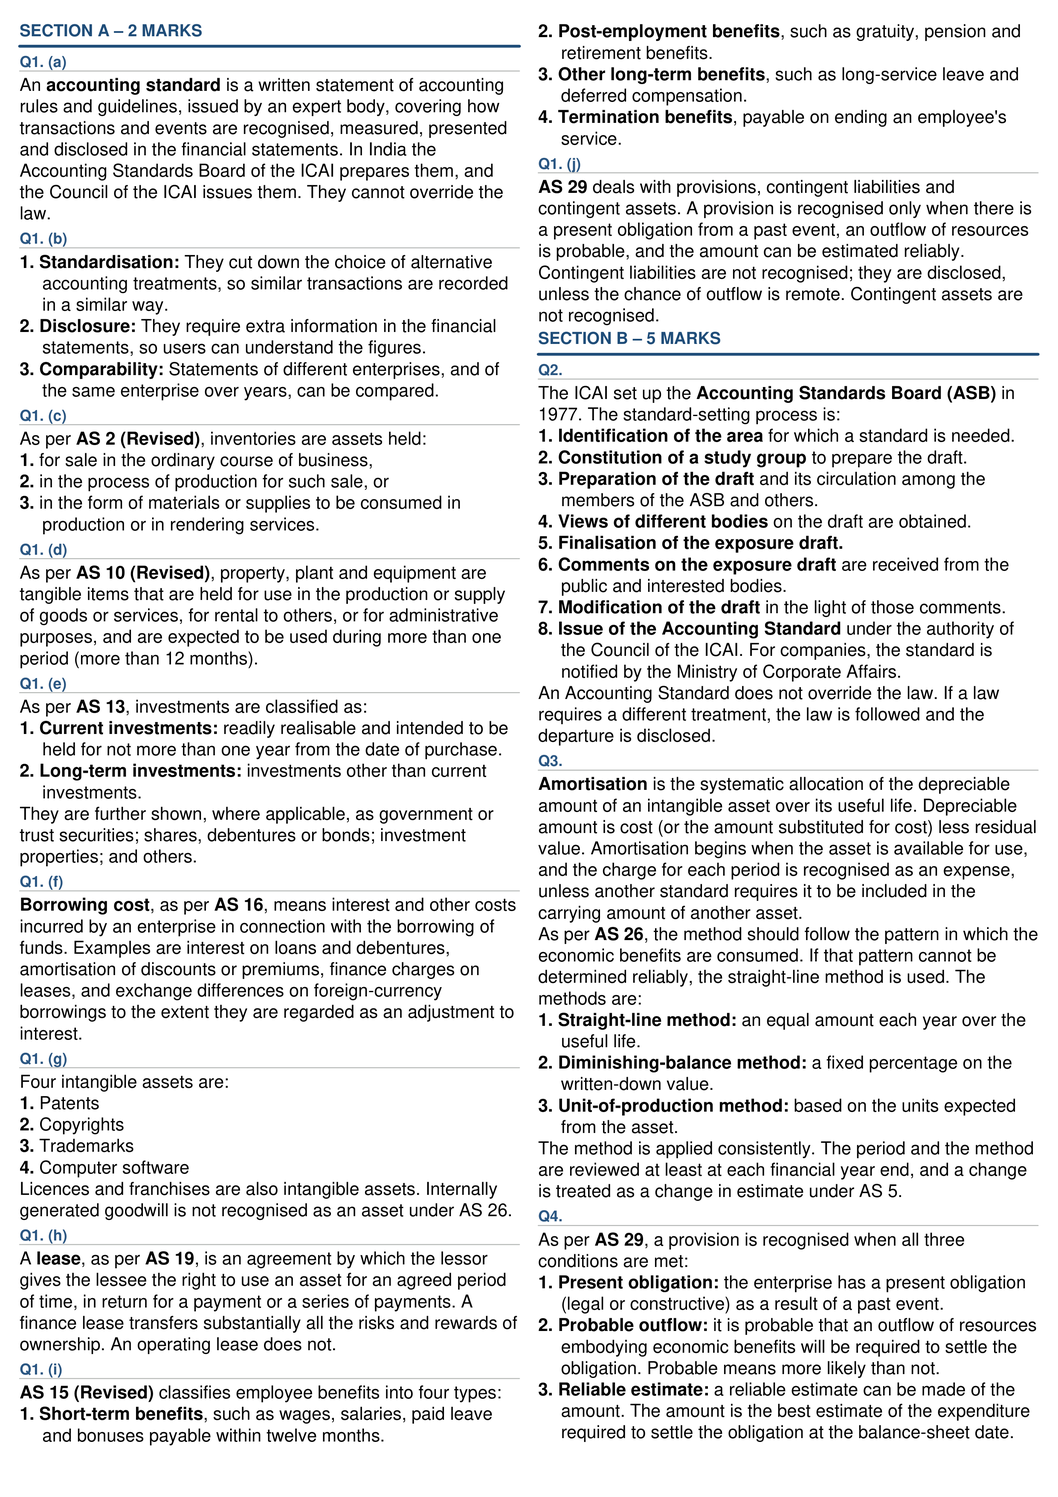
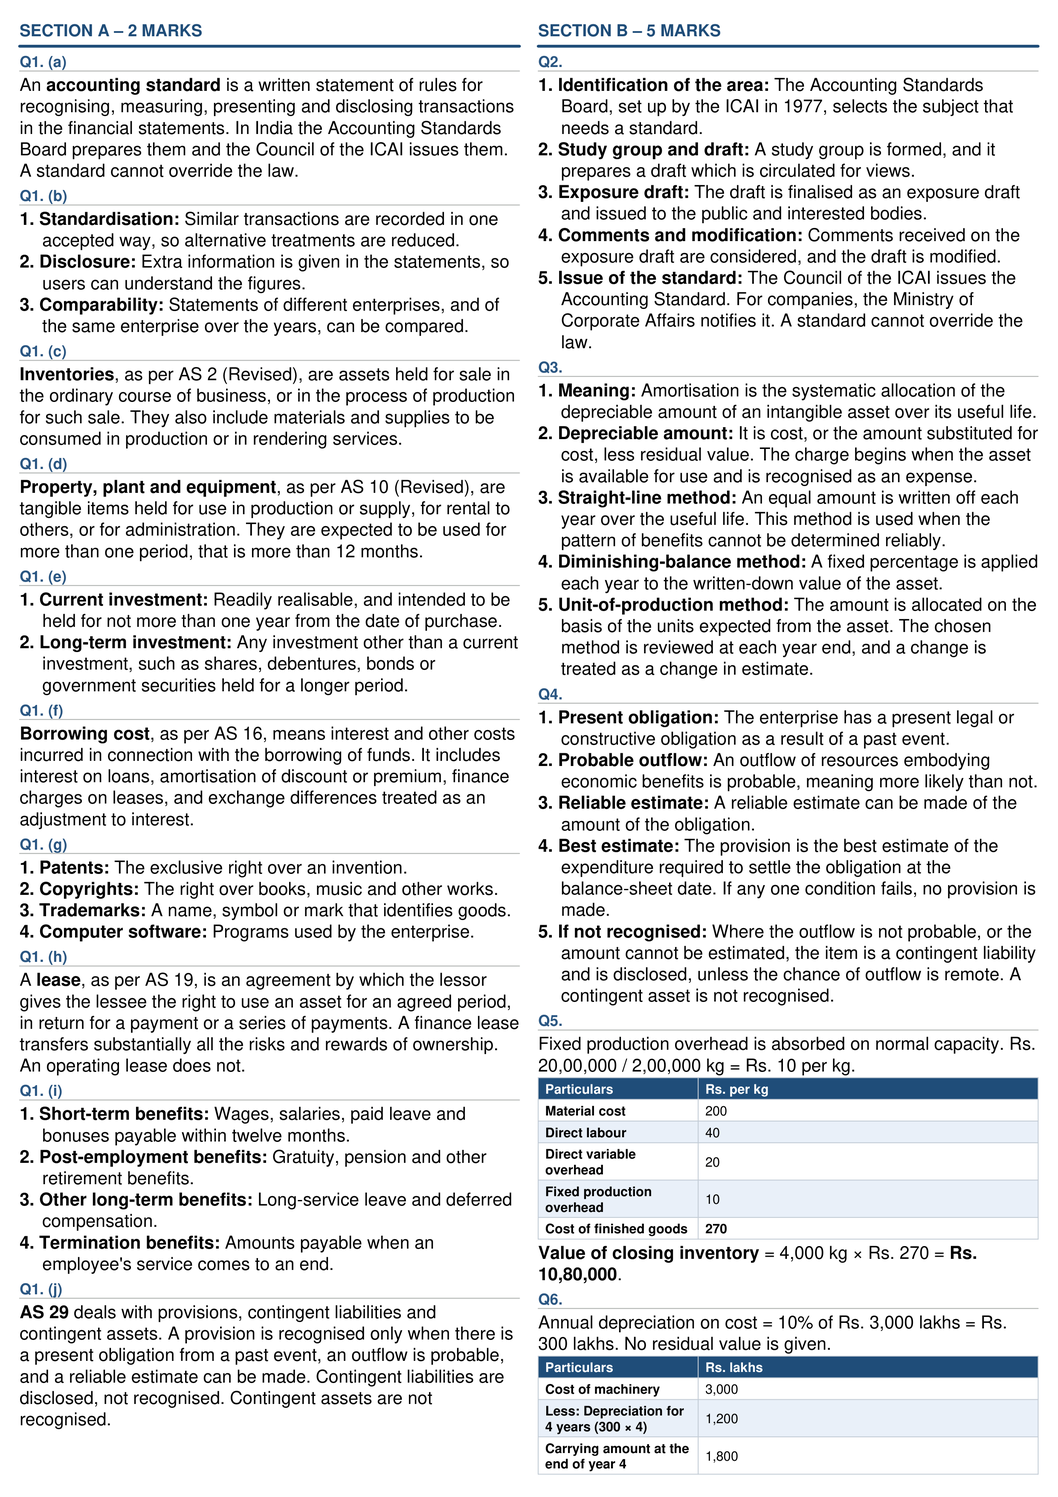
Put the Accounting Standards answers in the set exam format.
Two-mark answers are short definitions, five-mark answers are five labelled points, and the ten-mark theory answer is ten points. The workings are unchanged.

Changed region(s): [[0.0, 0.0, 0.9931, 0.9943]]

diff --git a/papers/accounting-standards-54323/answers.md b/papers/accounting-standards-54323/answers.md
@@ -1,132 +1,105 @@
 <!--
   Third Semester B.Com, December 2025 / January 2026 (SEP), Accounting Standards I, Q.P. 54323.
   Choice rule: only the first N of each section. A: 1(a)-(j). B: Q2-Q7. C: Q10-Q12.
-  Sources: ICAI Intermediate Advanced Accounting study material (the same edition as the saved AS 7, AS 26 and AS 28 chapters) and the notes already in notes/accounting-standards/.
 -->
 
 # SECTION A – 2 MARKS
 
 ## Q1. (a)
-An **accounting standard** is a written statement of accounting rules and guidelines, issued by an expert body, covering how transactions and events are recognised, measured, presented and disclosed in the financial statements. In India the Accounting Standards Board of the ICAI prepares them, and the Council of the ICAI issues them. They cannot override the law.
+An **accounting standard** is a written statement of rules for recognising, measuring, presenting and disclosing transactions in the financial statements. In India the Accounting Standards Board prepares them and the Council of the ICAI issues them. A standard cannot override the law.
 
 ## Q1. (b)
-1. **Standardisation:** They cut down the choice of alternative accounting treatments, so similar transactions are recorded in a similar way.
-2. **Disclosure:** They require extra information in the financial statements, so users can understand the figures.
-3. **Comparability:** Statements of different enterprises, and of the same enterprise over years, can be compared.
+1. **Standardisation:** Similar transactions are recorded in one accepted way, so alternative treatments are reduced.
+2. **Disclosure:** Extra information is given in the statements, so users can understand the figures.
+3. **Comparability:** Statements of different enterprises, and of the same enterprise over the years, can be compared.
 
 ## Q1. (c)
-As per **AS 2 (Revised)**, inventories are assets held:
-1. for sale in the ordinary course of business,
-2. in the process of production for such sale, or
-3. in the form of materials or supplies to be consumed in production or in rendering services.
+**Inventories**, as per AS 2 (Revised), are assets held for sale in the ordinary course of business, or in the process of production for such sale. They also include materials and supplies to be consumed in production or in rendering services.
 
 ## Q1. (d)
-As per **AS 10 (Revised)**, property, plant and equipment are tangible items that are held for use in the production or supply of goods or services, for rental to others, or for administrative purposes, and are expected to be used during more than one period (more than 12 months).
+**Property, plant and equipment**, as per AS 10 (Revised), are tangible items held for use in production or supply, for rental to others, or for administration. They are expected to be used for more than one period, that is more than 12 months.
 
 ## Q1. (e)
-As per **AS 13**, investments are classified as:
-1. **Current investments:** readily realisable and intended to be held for not more than one year from the date of purchase.
-2. **Long-term investments:** investments other than current investments.
-
-They are further shown, where applicable, as government or trust securities; shares, debentures or bonds; investment properties; and others.
+1. **Current investment:** Readily realisable, and intended to be held for not more than one year from the date of purchase.
+2. **Long-term investment:** Any investment other than a current investment, such as shares, debentures, bonds or government securities held for a longer period.
 
 ## Q1. (f)
-**Borrowing cost**, as per **AS 16**, means interest and other costs incurred by an enterprise in connection with the borrowing of funds. Examples are interest on loans and debentures, amortisation of discounts or premiums, finance charges on leases, and exchange differences on foreign-currency borrowings to the extent they are regarded as an adjustment to interest.
+**Borrowing cost**, as per AS 16, means interest and other costs incurred in connection with the borrowing of funds. It includes interest on loans, amortisation of discount or premium, finance charges on leases, and exchange differences treated as an adjustment to interest.
 
 ## Q1. (g)
-Four intangible assets are:
-1. Patents
-2. Copyrights
-3. Trademarks
-4. Computer software
-
-Licences and franchises are also intangible assets. Internally generated goodwill is not recognised as an asset under AS 26.
+1. **Patents:** The exclusive right over an invention.
+2. **Copyrights:** The right over books, music and other works.
+3. **Trademarks:** A name, symbol or mark that identifies goods.
+4. **Computer software:** Programs used by the enterprise.
 
 ## Q1. (h)
-A **lease**, as per **AS 19**, is an agreement by which the lessor gives the lessee the right to use an asset for an agreed period of time, in return for a payment or a series of payments. A finance lease transfers substantially all the risks and rewards of ownership. An operating lease does not.
+A **lease**, as per AS 19, is an agreement by which the lessor gives the lessee the right to use an asset for an agreed period, in return for a payment or a series of payments. A finance lease transfers substantially all the risks and rewards of ownership. An operating lease does not.
 
 ## Q1. (i)
-**AS 15 (Revised)** classifies employee benefits into four types:
-1. **Short-term benefits**, such as wages, salaries, paid leave and bonuses payable within twelve months.
-2. **Post-employment benefits**, such as gratuity, pension and retirement benefits.
-3. **Other long-term benefits**, such as long-service leave and deferred compensation.
-4. **Termination benefits**, payable on ending an employee's service.
+1. **Short-term benefits:** Wages, salaries, paid leave and bonuses payable within twelve months.
+2. **Post-employment benefits:** Gratuity, pension and other retirement benefits.
+3. **Other long-term benefits:** Long-service leave and deferred compensation.
+4. **Termination benefits:** Amounts payable when an employee's service comes to an end.
 
 ## Q1. (j)
-**AS 29** deals with provisions, contingent liabilities and contingent assets. A provision is recognised only when there is a present obligation from a past event, an outflow of resources is probable, and the amount can be estimated reliably. Contingent liabilities are not recognised; they are disclosed, unless the chance of outflow is remote. Contingent assets are not recognised.
+**AS 29** deals with provisions, contingent liabilities and contingent assets. A provision is recognised only when there is a present obligation from a past event, an outflow is probable, and a reliable estimate can be made. Contingent liabilities are disclosed, not recognised. Contingent assets are not recognised.
 
 # SECTION B – 5 MARKS
 
 ## Q2.
-The ICAI set up the **Accounting Standards Board (ASB)** in 1977. The standard-setting process is:
-1. **Identification of the area** for which a standard is needed.
-2. **Constitution of a study group** to prepare the draft.
-3. **Preparation of the draft** and its circulation among the members of the ASB and others.
-4. **Views of different bodies** on the draft are obtained.
-5. **Finalisation of the exposure draft.**
-6. **Comments on the exposure draft** are received from the public and interested bodies.
-7. **Modification of the draft** in the light of those comments.
-8. **Issue of the Accounting Standard** under the authority of the Council of the ICAI. For companies, the standard is notified by the Ministry of Corporate Affairs.
-
-An Accounting Standard does not override the law. If a law requires a different treatment, the law is followed and the departure is disclosed.
+1. **Identification of the area:** The Accounting Standards Board, set up by the ICAI in 1977, selects the subject that needs a standard.
+2. **Study group and draft:** A study group is formed, and it prepares a draft which is circulated for views.
+3. **Exposure draft:** The draft is finalised as an exposure draft and issued to the public and interested bodies.
+4. **Comments and modification:** Comments received on the exposure draft are considered, and the draft is modified.
+5. **Issue of the standard:** The Council of the ICAI issues the Accounting Standard. For companies, the Ministry of Corporate Affairs notifies it. A standard cannot override the law.
 
 ## Q3.
-**Amortisation** is the systematic allocation of the depreciable amount of an intangible asset over its useful life. Depreciable amount is cost (or the amount substituted for cost) less residual value. Amortisation begins when the asset is available for use, and the charge for each period is recognised as an expense, unless another standard requires it to be included in the carrying amount of another asset.
-
-As per **AS 26**, the method should follow the pattern in which the economic benefits are consumed. If that pattern cannot be determined reliably, the straight-line method is used. The methods are:
-1. **Straight-line method:** an equal amount each year over the useful life.
-2. **Diminishing-balance method:** a fixed percentage on the written-down value.
-3. **Unit-of-production method:** based on the units expected from the asset.
-
-The method is applied consistently. The period and the method are reviewed at least at each financial year end, and a change is treated as a change in estimate under AS 5.
+1. **Meaning:** Amortisation is the systematic allocation of the depreciable amount of an intangible asset over its useful life.
+2. **Depreciable amount:** It is cost, or the amount substituted for cost, less residual value. The charge begins when the asset is available for use and is recognised as an expense.
+3. **Straight-line method:** An equal amount is written off each year over the useful life. This method is used when the pattern of benefits cannot be determined reliably.
+4. **Diminishing-balance method:** A fixed percentage is applied each year to the written-down value of the asset.
+5. **Unit-of-production method:** The amount is allocated on the basis of the units expected from the asset. The chosen method is reviewed at each year end, and a change is treated as a change in estimate.
 
 ## Q4.
-As per **AS 29**, a provision is recognised when all three conditions are met:
-1. **Present obligation:** the enterprise has a present obligation (legal or constructive) as a result of a past event.
-2. **Probable outflow:** it is probable that an outflow of resources embodying economic benefits will be required to settle the obligation. Probable means more likely than not.
-3. **Reliable estimate:** a reliable estimate can be made of the amount. The amount is the best estimate of the expenditure required to settle the obligation at the balance-sheet date.
-
-If any one condition fails, no provision is made. Where the outflow is not probable, or the amount cannot be estimated, the item is a contingent liability and is disclosed, unless the possibility of outflow is remote. An enterprise should not recognise a contingent asset.
+1. **Present obligation:** The enterprise has a present legal or constructive obligation as a result of a past event.
+2. **Probable outflow:** An outflow of resources embodying economic benefits is probable, meaning more likely than not.
+3. **Reliable estimate:** A reliable estimate can be made of the amount of the obligation.
+4. **Best estimate:** The provision is the best estimate of the expenditure required to settle the obligation at the balance-sheet date. If any one condition fails, no provision is made.
+5. **If not recognised:** Where the outflow is not probable, or the amount cannot be estimated, the item is a contingent liability and is disclosed, unless the chance of outflow is remote. A contingent asset is not recognised.
 
 ## Q5.
-Fixed production overhead is absorbed on **normal capacity**, as required by AS 2. It is not increased because of low production.
+Fixed production overhead is absorbed on normal capacity. Rs. 20,00,000 / 2,00,000 kg = Rs. 10 per kg.
 
 | Particulars | Rs. per kg |
 | --- | --- |
 | Material cost | 200 |
 | Direct labour | 40 |
 | Direct variable overhead | 20 |
-| Fixed production overhead (Rs. 20,00,000 / 2,00,000 kg) | 10 |
+| Fixed production overhead | 10 |
 | **Cost of finished goods** | **270** |
 
 **Value of closing inventory** = 4,000 kg × Rs. 270 = **Rs. 10,80,000**.
 
-Actual output is not given, so the normal-capacity rate of Rs. 10 per kg is used. Fixed overhead left unabsorbed, if production is below normal capacity, is charged to profit and loss and is not added to the stock.
-
 ## Q6.
-Depreciation is 10% per year on the straight-line method. On a life of 10 years and no residual value, that is Rs. 300 lakhs a year (10% of Rs. 3,000 lakhs).
+Annual depreciation on cost = 10% of Rs. 3,000 lakhs = Rs. 300 lakhs. No residual value is given.
 
 | Particulars | Rs. lakhs |
 | --- | --- |
 | Cost of machinery | 3,000 |
 | Less: Depreciation for 4 years (300 × 4) | 1,200 |
-| Carrying amount at the end of year 4, before revaluation | 1,800 |
-| Revalued amount adopted at the end of year 4 | 2,700 |
-| Revaluation surplus, credited to revaluation reserve (2,700 − 1,800) | 900 |
+| Carrying amount at the end of year 4 | 1,800 |
+| Revalued amount adopted | 2,700 |
+| Revaluation surplus (2,700 − 1,800) | 900 |
 
-Useful life is unchanged, so 6 years remain. Under AS 10 the revalued amount is depreciated over the remaining useful life.
-
-Depreciation from year 5 = 2,700 / 6 = **Rs. 450 lakhs per year**.
+Useful life is unchanged, so 6 years remain. Depreciation = 2,700 / 6 = **Rs. 450 lakhs a year**.
 
 | At the end of | Rs. lakhs |
 | --- | --- |
-| Year 5 (2,700 − 450) | 2,250 |
-| Year 6 (2,250 − 450) | 1,800 |
-
-**Carrying amount at the end of year 5 is Rs. 2,250 lakhs, and at the end of year 6 is Rs. 1,800 lakhs.**
+| Year 5 (2,700 − 450) | **2,250** |
+| Year 6 (2,250 − 450) | **1,800** |
 
 ## Q7.
-Value in use is the present value of the cash flows from use and from disposal at the end of the life. The residual value of Rs. 5 lakhs is discounted with the year-5 factor.
+Value in use includes the cash flows from use and the residual value on disposal.
 
 | Year ended | Cash flow (Rs. lakhs) | Factor at 10% | Present value |
 | --- | --- | --- | --- |
@@ -135,80 +108,57 @@ Value in use is the present value of the cash flows from use and from disposal a
 | 31.03.2014 | 30 | 0.751 | 22.53 |
 | 31.03.2015 | 20 | 0.683 | 13.66 |
 | 31.03.2016 | 20 | 0.620 | 12.40 |
-| Residual value on 31.03.2016 | 5 | 0.620 | 3.10 |
+| Residual value | 5 | 0.620 | 3.10 |
 | **Value in use** | | | **121.92** |
 
-Recoverable amount is the higher of net selling price and value in use.
-
-Net selling price = Rs. 60 lakhs. Value in use = Rs. 121.92 lakhs.
-
-**Recoverable amount = Rs. 121.92 lakhs.**
-
-The carrying amount is Rs. 100 lakhs, which is below the recoverable amount, so there is no impairment loss.
+**Recoverable amount** is the higher of net selling price (Rs. 60 lakhs) and value in use (Rs. 121.92 lakhs), so **Rs. 121.92 lakhs**. Carrying amount is Rs. 100 lakhs, so there is no impairment loss.
 
 # SECTION C – 10 MARKS
 
 ## Q10.
-The Council of the ICAI, at its meeting of 18–19 March 2021, classified **non-company entities** for Accounting Standards applicable to periods beginning on or after 1 April 2020. There are four levels. Level I entities are large. Level II are medium, Level III are small and Level IV are micro. Levels II, III and IV are together called MSMEs.
-
-**Level I** (any one of the following, at the end of the relevant accounting period):
-1. Securities are listed, or are in the process of listing, on any stock exchange in India or outside India.
-2. Banks (including co-operative banks), financial institutions, or an insurance business.
-3. Turnover, excluding other income, exceeds **Rs. 250 crore** in the immediately preceding accounting year.
-4. Borrowings, including public deposits, exceed **Rs. 50 crore** at any time during the immediately preceding accounting year.
-5. Holding and subsidiary entities of any of the above.
-
-Level I entities comply in full with all Accounting Standards.
-
-**Level II** (not Level I, but any one of the following):
-1. Turnover, excluding other income, exceeds **Rs. 50 crore** but does not exceed **Rs. 250 crore**.
-2. Borrowings, including public deposits, exceed **Rs. 10 crore** but do not exceed **Rs. 50 crore**.
-3. Holding and subsidiary entities of any of the above.
-
-**Level III** (not Level I or Level II, but any one of the following):
-1. Turnover, excluding other income, exceeds **Rs. 10 crore** but does not exceed **Rs. 50 crore**.
-2. Borrowings, including public deposits, exceed **Rs. 2 crore** but do not exceed **Rs. 10 crore**.
-3. Holding and subsidiary entities of any of the above.
-
-**Level IV:** every non-company entity not covered in Level I, II or III.
-
-Levels II, III and IV are given exemptions and relaxations. An entity which uses them must disclose, in a note, that it is an MSME, its level, and that it has complied with the Accounting Standards so far as they apply to that level. This classification does not apply to a non-company entity which is required to follow Ind AS.
+The Council of the ICAI classified non-company entities, for periods beginning on or after 1 April 2020, into four levels. Level I is large. Levels II, III and IV are medium, small and micro, and together they are called MSMEs.
+### Level I
+1. **Listed:** Its securities are listed, or are in the process of listing, on any stock exchange in India or outside India.
+2. **Bank or insurer:** It is a bank, including a co-operative bank, a financial institution, or it carries on insurance business.
+3. **Turnover:** Turnover, excluding other income, exceeds Rs. 250 crore in the immediately preceding accounting year.
+4. **Borrowings:** Borrowings, including public deposits, exceed Rs. 50 crore at any time during the immediately preceding accounting year.
+5. **Holding and subsidiary:** A holding or subsidiary entity of any of the above is also Level I. Level I entities comply in full with all Accounting Standards.
+### Level II
+6. **Turnover band:** It is not Level I, and its turnover, excluding other income, exceeds Rs. 50 crore but does not exceed Rs. 250 crore.
+7. **Borrowings band:** Borrowings, including public deposits, exceed Rs. 10 crore but do not exceed Rs. 50 crore. Holding and subsidiary entities of such an entity are also Level II.
+### Level III
+8. **Turnover band:** It is not Level I or Level II, and its turnover, excluding other income, exceeds Rs. 10 crore but does not exceed Rs. 50 crore.
+9. **Borrowings band:** Borrowings, including public deposits, exceed Rs. 2 crore but do not exceed Rs. 10 crore. Holding and subsidiary entities of such an entity are also Level III.
+### Level IV
+10. **Micro entities:** Every non-company entity not covered above is Level IV. Levels II, III and IV get exemptions, and an entity that uses them discloses its level in a note. This scheme does not apply to an entity which must follow Ind AS.
 
 ## Q11.
-The shares are current investments, so they are carried at cost or market value, whichever is lower. Bonus is in the ratio of 1:2, that is one bonus share for every two shares held. Cost of the bonus is nil, and the total cost is spread over the shares held after the bonus.
+Current investments are carried at cost or market value, whichever is lower. Bonus of 1:2 is one new share for every two held.
 
-### Working 1 — Cost of 1,000 shares purchased on 1.4.2021
+### Cost of 1,000 shares on 1.4.2021
 
 | Particulars | Rs. |
 | --- | --- |
 | Price paid (1,000 × Rs. 120) | 1,20,000 |
-| Brokerage at 2% of Rs. 1,20,000 | 2,400 |
-| Share-transfer stamps, 50 paise per Rs. 100 of Rs. 1,20,000 | 600 |
+| Brokerage at 2% | 2,400 |
+| Stamps, 50 paise per Rs. 100 of Rs. 1,20,000 | 600 |
 | **Cost** | **1,23,000** |
 
-### Working 2 — Bonus and average cost
+Bonus shares = 1,000 × 1/2 = 500. Shares after bonus = 1,500. Average cost = 1,23,000 / 1,500 = **Rs. 82**.
 
-Bonus shares = 1,000 × 1/2 = **500 shares**. Shares after bonus = 1,500.
-
-Average cost = 1,23,000 / 1,500 = **Rs. 82 per share**.
-
-### Working 3 — Sale of 500 bonus shares on 31.3.2022
+### Sale of 500 bonus shares on 31.3.2022
 
 | Particulars | Rs. |
 | --- | --- |
 | Sale price (500 × Rs. 90) | 45,000 |
 | Less: Brokerage at 2% | 900 |
-| Net sale proceeds | 44,100 |
-| Less: Cost of shares sold (500 × Rs. 82) | 41,000 |
+| Net proceeds | 44,100 |
+| Less: Cost (500 × Rs. 82) | 41,000 |
 | **Profit on sale** | **3,100** |
 
-### Working 4 — Valuation of the remaining 1,000 shares
+Closing holding: cost Rs. 82,000 (1,000 × Rs. 82). Market value Rs. 90,000 (1,000 × Rs. 90). Carried at **Rs. 82,000**. Rs. 175 was the cum-bonus price, not the year-end price.
 
-Cost = 1,000 × Rs. 82 = Rs. 82,000. Market value = 1,000 × Rs. 90 = Rs. 90,000.
-
-Lower of cost and market value = **Rs. 82,000**. The closing balance is carried at cost. The price of Rs. 175 was the cum-bonus quotation and is not the year-end market value.
-
-### Investment account in the books of Mr Jagan (TELCO Ltd. equity shares)
+### Investment account — TELCO Ltd. equity shares
 
 | Debit | Nominal | Cost | Credit | Nominal | Cost |
 | --- | --- | --- | --- | --- | --- |
@@ -217,12 +167,10 @@ Lower of cost and market value = **Rs. 82,000**. The closing balance is carried 
 | To Profit and loss | — | 3,100 | | | |
 | | **1,50,000** | **1,26,100** | | **1,50,000** | **1,26,100** |
 
-Nominal value is Rs. 100 per share. Balance brought down on 1.4.2022 is 1,000 shares, nominal Rs. 1,00,000, cost Rs. 82,000.
+Nominal value is Rs. 100 a share. Balance brought down: 1,000 shares, nominal Rs. 1,00,000, cost Rs. 82,000.
 
 ## Q12.
-The factory building is a qualifying asset under **AS 16**. It took a full year to get ready. The specific loan is used first. The rest of the expenditure is financed by the general loans, at their weighted average rate. There is no income from temporary investment of the borrowings.
-
-### Working 1 — Interest and weighted average rate of general borrowings
+The specific loan is used first. The rest of the expenditure takes the weighted average rate of the general loans.
 
 | Loan (Rs.) | Rate | Interest (Rs.) |
 | --- | --- | --- |
@@ -231,13 +179,9 @@ The factory building is a qualifying asset under **AS 16**. It took a full year 
 | 3,00,000 | 10% | 30,000 |
 | **12,00,000** | | **1,26,000** |
 
-Weighted average rate = 1,26,000 / 12,00,000 × 100 = **10.5%**.
+Weighted average rate = 1,26,000 / 12,00,000 × 100 = **10.5%**. Specific-loan interest = 2,00,000 × 8% = **Rs. 16,000**.
 
-Interest on the specific loan = 2,00,000 × 8% = **Rs. 16,000**.
-
-### Working 2 — Expenditure financed by general borrowings
-
-| Date | Amount (Rs.) | Months to 31.03.2018 | Weighted amount (Rs.) |
+| Date | Amount (Rs.) | Months | Weighted (Rs.) |
 | --- | --- | --- | --- |
 | 01.04.2017 | 3,00,000 | 12/12 | 3,00,000 |
 | 31.05.2017 | 2,40,000 | 10/12 | 2,00,000 |
@@ -245,23 +189,9 @@ Interest on the specific loan = 2,00,000 × 8% = **Rs. 16,000**.
 | 31.12.2017 | 3,60,000 | 3/12 | 90,000 |
 | | **13,00,000** | | **8,56,666.67** |
 
-Amount financed by the specific loan, outstanding for the whole year = Rs. 2,00,000.
+From general borrowings = 8,56,666.67 − 2,00,000 = Rs. 6,56,666.67. Interest = 6,56,666.67 × 10.5% = **Rs. 68,950**.
 
-Weighted expenditure from general borrowings = 8,56,666.67 − 2,00,000 = Rs. 6,56,666.67.
-
-Interest on general borrowings = 6,56,666.67 × 10.5% = **Rs. 68,950**.
-
-### Interest to be capitalised
-
-| Particulars | Rs. |
-| --- | --- |
-| Specific borrowing | 16,000 |
-| General borrowings | 68,950 |
-| **Total borrowing cost capitalised** | **84,950** |
-
-Cost of the building = 13,00,000 + 84,950 = **Rs. 13,84,950**.
-
-### Journal entry
+**Interest capitalised** = 16,000 + 68,950 = **Rs. 84,950**. Building = 13,00,000 + 84,950 = **Rs. 13,84,950**. Journal entry:
 
 | Particulars | Debit Rs. | Credit Rs. |
 | --- | --- | --- |
